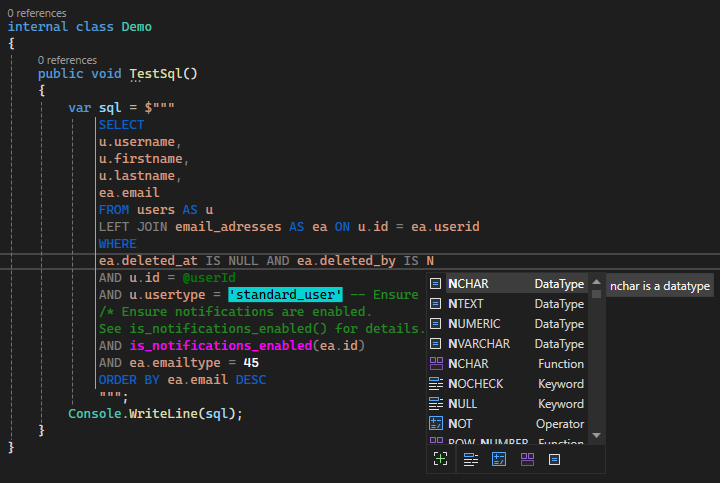
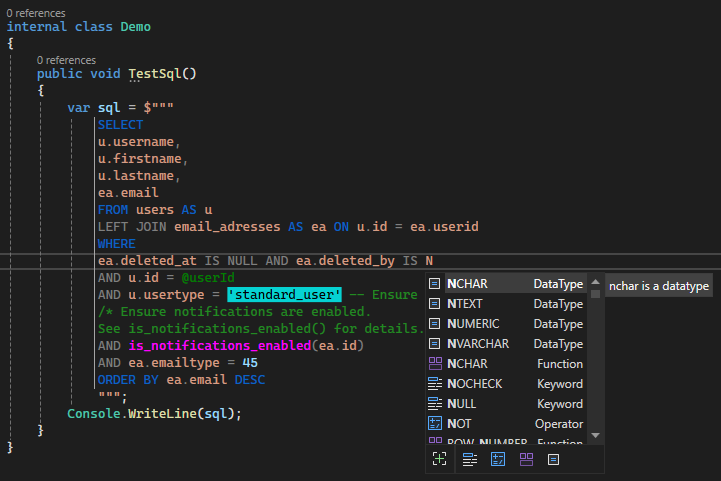
Adjusted literals color, cleaned up a little more code, and bumped the version number again.

diff --git a/SqlTools/Classifiers/SqlClassifierFormat.cs b/SqlTools/Classifiers/SqlClassifierFormat.cs
@@ -14,8 +14,8 @@ namespace SqlTools.Classifiers
     {
         public SqlKeyworkFormat()
         {
-            this.DisplayName = "Sql-Keyword";
-            this.ForegroundColor = new Color() { R = 10, G = 100, B = 200 }; // Bluish color that is visible in light and dark default themes
+            DisplayName = "Sql-Keyword";
+            ForegroundColor = new Color() { R = 10, G = 100, B = 200 }; // Bluish color that is visible in light and dark default themes
         }
     }
 
@@ -28,8 +28,8 @@ namespace SqlTools.Classifiers
     {
         public SqlOperatorFormat()
         {
-            this.DisplayName = "Sql-Operator";
-            this.ForegroundColor = Colors.Gray;
+            DisplayName = "Sql-Operator";
+            ForegroundColor = Colors.Gray;
         }
     }
 
@@ -42,8 +42,8 @@ namespace SqlTools.Classifiers
     {
         public SqlDunctionFormat()
         {
-            this.DisplayName = "Sql-Function";
-            this.ForegroundColor = Colors.Magenta;
+            DisplayName = "Sql-Function";
+            ForegroundColor = Colors.Magenta;
         }
     }
 
@@ -56,8 +56,8 @@ namespace SqlTools.Classifiers
     {
         public SqlVariableFormat()
         {
-            this.DisplayName = "Sql-Variable";
-            this.ForegroundColor = Colors.Green;
+            DisplayName = "Sql-Variable";
+            ForegroundColor = Colors.Green;
         }
     }
 
@@ -70,8 +70,8 @@ namespace SqlTools.Classifiers
     {
         public SqlLiteralFormat()
         {
-            this.DisplayName = "Sql-Literal";
-            this.ForegroundColor = Colors.White;
+            DisplayName = "Sql-Literal";
+            ForegroundColor = new Color() { R = 156, G = 220, B = 254 };
         }
     }
 
@@ -113,8 +113,8 @@ namespace SqlTools.Classifiers
     {
         public SqlDefineFormat()
         {
-            this.DisplayName = "Sql-Defined";
-            this.ForegroundColor = new Color() { R = 116, G = 83, B = 31 };
+            DisplayName = "Sql-Defined";
+            ForegroundColor = new Color() { R = 116, G = 83, B = 31 };
         }
     }
 
@@ -127,8 +127,8 @@ namespace SqlTools.Classifiers
     {
         public SqlWorkflowFormat()
         {
-            this.DisplayName = "Sql-Workflow";
-            this.ForegroundColor = new Color() { R = 255, G = 69, B = 0 };
+            DisplayName = "Sql-Workflow";
+            ForegroundColor = new Color() { R = 255, G = 69, B = 0 };
         }
     }
 }

diff --git a/SqlTools/Classifiers/SqlClassifier.cs b/SqlTools/Classifiers/SqlClassifier.cs
@@ -94,13 +94,13 @@ namespace SqlTools.Classifiers
         private readonly IClassificationType commentType;
         private readonly IClassificationType definedType;
         private readonly IClassificationType workflowType;
-        readonly ITagAggregator<NaturalTextTag> tagger;
-        readonly IClassificationFormatMapService service;
+        readonly ITagAggregator<NaturalTextTag> _tagger;
+        readonly IClassificationFormatMapService _service;
 
         internal SqlClassifier(ITagAggregator<NaturalTextTag> tagger, IClassificationTypeRegistryService registry, IClassificationFormatMapService format)
         {
-            this.tagger = tagger;
-            this.service = format;
+            _tagger = tagger;
+            _service = format;
             keywordType = registry.GetClassificationType("Sql-Keyword");
             operatorType = registry.GetClassificationType("Sql-Operator");
             functionType = registry.GetClassificationType("Sql-Function");
@@ -125,7 +125,7 @@ namespace SqlTools.Classifiers
             var precedingText = textSnapshot.GetText(0, span.Start.Position);
             bool isMultiLineComment = IsInMultiLineComment(precedingText);
 
-            foreach (IMappingTagSpan<NaturalTextTag> tagSpan in tagger.GetTags(span).ToList())
+            foreach (IMappingTagSpan<NaturalTextTag> tagSpan in _tagger.GetTags(span).ToList())
             {
                 SnapshotSpan snapshot = tagSpan.Span.GetSpans(span.Snapshot).First();
 

diff --git a/SqlTools/NaturalTextTaggers/CSharp/CSharpCommentTextTagger.cs b/SqlTools/NaturalTextTaggers/CSharp/CSharpCommentTextTagger.cs
@@ -83,7 +83,7 @@ namespace SqlTools.NaturalTextTaggers.CSharp
                                        let lastUpdatedLine = RescanLines(snapshot, startLine.LineNumber, endLine.LineNumber)
                                        select new SnapshotSpan(startLine.Start, snapshot.GetLineFromLineNumber(lastUpdatedLine).End)).ToList();
             lineCacheSnapshot = snapshot;
-            EventHandler<SnapshotSpanEventArgs> tagsChanged = this.TagsChanged;
+            EventHandler<SnapshotSpanEventArgs> tagsChanged = TagsChanged;
             if (tagsChanged != null)
             {
                 foreach (SnapshotSpan item2 in list)
